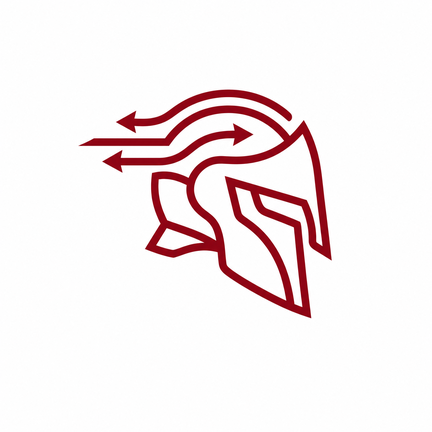
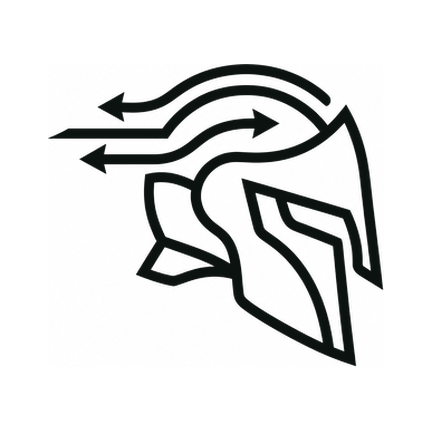
Checkpoint: تم إنشاء شعار OPTIMUS X أسود ومتمركز بعد إزالة الفراغات البيضاء الزائدة وتكبير الرسم، ثم استخدامه داخل شاشة البداية بحجم أكبر، وفي أيقونة التطبيق، وأيقونة Android التكيفية، وشاشة البداية. نجحت TypeScript و10 اختبارات للواجهة، وبُني APK Release بنجاح بحجم 81MB. SHA-256: 1a6d09ffed0e930f4e

Changed region(s): [[0.1204, 0.1505, 0.9028, 0.8426]]

diff --git a/components/jarbou3-app.tsx b/components/jarbou3-app.tsx
@@ -62,7 +62,7 @@ function Tag({ children, status = false }: { children: ReactNode; status?: boole
 }
 
 function Mark({ small = false }: { small?: boolean }) {
-  return <View style={[styles.mark, small && styles.markSmall]}><Image source={require("@/assets/images/icon.png")} style={styles.markImage} contentFit="cover" /></View>;
+  return <View style={[styles.mark, small && styles.markSmall]}><Image source={require("@/assets/images/optimus-black-logo.png")} style={styles.markImage} contentFit="cover" /></View>;
 }
 
 function PrivacyPolicySheet({ visible, onClose }: { visible: boolean; onClose: () => void }) {
@@ -1118,7 +1118,7 @@ const styles = StyleSheet.create({
   root: { flex: 1, backgroundColor: "#F7F9F8" }, authHelper: { color: "#829087", fontSize: 10, lineHeight: 16, textAlign: "right", marginTop: -4, marginBottom: 8 }, authTeamNote: { minHeight: 58, flexDirection: "row-reverse", alignItems: "center", gap: 10, paddingHorizontal: 12, borderRadius: 16, backgroundColor: "#EAF5EF", borderWidth: 1, borderColor: "#B8DCC8" }, authTeamText: { flex: 1, color: "#24755E", fontSize: 11, fontWeight: "800", lineHeight: 17, textAlign: "right" }, onboardingRoot: { flex: 1, backgroundColor: "#070B0A", justifyContent: "center", padding: 18, overflow: "hidden" }, onboardingScroll: { flexGrow: 1, justifyContent: "flex-start", padding: 18, paddingTop: 42 }, chooseScroll: { flexGrow: 1, justifyContent: "space-between", paddingTop: 30, paddingBottom: 26, gap: 24 }, chooseGlow: { position: "absolute", width: 310, height: 310, borderRadius: 155, backgroundColor: "#123E32", top: -155, right: -112, opacity: 0.7 }, chooseGlowSecondary: { position: "absolute", width: 210, height: 210, borderRadius: 105, backgroundColor: "#0D2922", bottom: -100, left: -90, opacity: 0.9 }, chooseHeader: { alignItems: "center", gap: 5 }, chooseLogo: { width: 70, height: 70, borderRadius: 24, alignItems: "center", justifyContent: "center", backgroundColor: "#F6FFFB", marginBottom: 6, shadowColor: "#55D9A5", shadowOpacity: 0.18, shadowRadius: 18, elevation: 4 }, chooseBrand: { color: "#F3FFF9", fontSize: 23, fontWeight: "900", letterSpacing: 2.2 }, chooseTagline: { color: "#8BA99D", fontSize: 11, fontWeight: "700" }, chooseIntro: { alignItems: "flex-end", paddingTop: 22, paddingHorizontal: 3 }, chooseKicker: { color: "#55D9A5", fontSize: 12, fontWeight: "900", marginBottom: 7 }, chooseTitle: { color: "#F3FFF9", fontSize: 31, fontWeight: "900", textAlign: "right" }, chooseCopy: { color: "#9BB5AA", fontSize: 13, fontWeight: "600", marginTop: 7, textAlign: "right" }, roleOptions: { gap: 13 }, roleOption: { minHeight: 88, flexDirection: "row-reverse", alignItems: "center", gap: 13, paddingHorizontal: 15, borderRadius: 23, backgroundColor: "#111A17", borderWidth: 1, borderColor: "#234238", shadowColor: "#000000", shadowOpacity: 0.3, shadowRadius: 14, shadowOffset: { width: 0, height: 5 }, elevation: 2 }, roleIcon: { width: 52, height: 52, borderRadius: 17, alignItems: "center", justifyContent: "center", backgroundColor: "#15392F" }, roleIconDriver: { backgroundColor: "#EEF7F3" }, roleCopy: { flex: 1, alignItems: "flex-end" }, roleOptionTitle: { color: "#F3FFF9", fontSize: 16, fontWeight: "900", textAlign: "right" }, roleOptionDescription: { color: "#8BA99D", fontSize: 11, fontWeight: "600", marginTop: 4, textAlign: "right" }, choosePressed: { opacity: 0.8, transform: [{ scale: 0.985 }] }, chooseFooter: { color: "#6E9184", fontSize: 10, fontWeight: "700", textAlign: "center", letterSpacing: 0.5 }, homeScroll: { flexGrow: 1, paddingHorizontal: 18, gap: 18 }, homeHeader: { flexDirection: "row-reverse", alignItems: "center", justifyContent: "space-between" }, homeIdentity: { flex: 1, alignItems: "flex-end" }, homeEyebrow: { color: "#24755E", fontSize: 10, fontWeight: "900", marginBottom: 5 }, homeGreeting: { color: "#21342A", fontSize: 23, fontWeight: "900", textAlign: "right" }, homeSubcopy: { color: "#7D8C84", fontSize: 11, fontWeight: "600", marginTop: 4, textAlign: "right" }, orderHero: { position: "relative", overflow: "hidden", borderRadius: 27, backgroundColor: "#EAF5EF", padding: 19, gap: 7 }, orderHeroGlow: { position: "absolute", width: 180, height: 180, borderRadius: 90, backgroundColor: "#D5EBDD", top: -92, left: -45 }, orderKicker: { color: "#24755E", fontSize: 10, fontWeight: "900", textAlign: "right" }, orderTitle: { color: "#21342A", fontSize: 24, fontWeight: "900", textAlign: "right", marginTop: 2 }, orderCopy: { color: "#6F8177", fontSize: 11, lineHeight: 18, fontWeight: "600", textAlign: "right", marginBottom: 7 }, createOrderButton: { minHeight: 50, borderRadius: 16, flexDirection: "row-reverse", alignItems: "center", justifyContent: "center", gap: 8, backgroundColor: "#24755E", shadowColor: "#24755E", shadowOpacity: 0.18, shadowRadius: 9, shadowOffset: { width: 0, height: 4 }, elevation: 3 }, createOrderText: { color: "#FFFFFF", fontSize: 13, fontWeight: "900" }, mapShortcut: { minHeight: 58, flexDirection: "row-reverse", alignItems: "center", gap: 10, marginTop: 6, paddingHorizontal: 10, borderRadius: 16, backgroundColor: "#FFFFFF99" }, mapShortcutIcon: { width: 34, height: 34, borderRadius: 11, alignItems: "center", justifyContent: "center", backgroundColor: "#DDF0E5" }, mapShortcutCopy: { flex: 1, alignItems: "flex-end" }, mapShortcutTitle: { color: "#345047", fontSize: 11, fontWeight: "900", textAlign: "right" }, mapShortcutText: { color: "#809087", fontSize: 9, fontWeight: "600", marginTop: 3, textAlign: "right" }, homeSectionHeader: { flexDirection: "row-reverse", alignItems: "center", justifyContent: "space-between", marginTop: 3 }, homeSectionTitle: { color: "#2C3D33", fontSize: 15, fontWeight: "900" }, homeSectionLink: { color: "#24755E", fontSize: 10, fontWeight: "900" }, recentEmpty: { minHeight: 82, flexDirection: "row-reverse", alignItems: "center", gap: 11, paddingHorizontal: 13, borderRadius: 19, backgroundColor: "#FFFFFF", shadowColor: "#1E3B2D", shadowOpacity: 0.05, shadowRadius: 10, shadowOffset: { width: 0, height: 3 }, elevation: 2 }, recentIcon: { width: 38, height: 38, borderRadius: 13, alignItems: "center", justifyContent: "center", backgroundColor: "#EAF5EF" }, recentCopy: { flex: 1, alignItems: "flex-end" }, recentTitle: { color: "#2D3D34", fontSize: 12, fontWeight: "900", textAlign: "right" }, recentText: { color: "#87958D", fontSize: 10, lineHeight: 16, fontWeight: "600", textAlign: "right", marginTop: 3 }, onboardingCard: { width: "100%", maxWidth: 470, alignSelf: "center", backgroundColor: "#FFFFFF", borderRadius: 28, padding: 22, gap: 13, shadowColor: "#000", shadowOpacity: 0.06, shadowRadius: 16, elevation: 2 }, landingCard: { width: "100%", maxWidth: 470, alignSelf: "center", backgroundColor: "#241B1F", borderRadius: 30, padding: 24, gap: 16, shadowColor: "#5B1830", shadowOpacity: 0.22, shadowRadius: 22, elevation: 5 }, landingBrand: { alignItems: "center", gap: 6, paddingTop: 4 }, landingBrandName: { color: "#FFFFFF", fontSize: 28, fontWeight: "900", letterSpacing: 2 }, landingBrandTagline: { color: "#E9C8D0", fontSize: 12, fontWeight: "800" }, landingDivider: { height: 1, backgroundColor: "#704453", marginVertical: 2 }, landingTitle: { color: "#FFFFFF", fontSize: 26, fontWeight: "900", textAlign: "right", marginTop: 2 }, landingCopy: { color: "#EADFE2", fontSize: 13, lineHeight: 21, textAlign: "right" }, onboardingTitle: { color: dark, fontSize: 24, fontWeight: "900", textAlign: "right", marginTop: 4 }, onboardingCopy: { color: "#737373", fontSize: 13, lineHeight: 21, textAlign: "right" }, onboardingNote: { color: "#7A7A7A", fontSize: 10, lineHeight: 16, textAlign: "right", marginTop: 2 }, verificationGuide: { backgroundColor: "#F2F2F2", borderRadius: 16, padding: 13, gap: 5 }, verificationGuideTitle: { color: dark, fontSize: 12, fontWeight: "900", textAlign: "right", marginBottom: 2 }, verificationGuideText: { color: "#666666", fontSize: 11, lineHeight: 18, textAlign: "right" }, verificationTimer: { backgroundColor: "#E7F3EC", borderColor: "#B7DEC8", borderWidth: 1, borderRadius: 17, padding: 13, flexDirection: "row-reverse", justifyContent: "space-between", alignItems: "center" }, verificationTimerExpired: { backgroundColor: "#FBE9E8", borderColor: "#E6BBB7" }, verificationTimerLabel: { color: "#2F7A62", fontSize: 11, fontWeight: "900", textAlign: "right" }, verificationTimerValue: { color: "#276149", fontSize: 17, fontWeight: "900" }, verificationTimerValueExpired: { color: "#B42318" }, roleChoice: { backgroundColor: "#F2F2F2", padding: 16, borderRadius: 18, gap: 4 }, roleChoiceDark: { backgroundColor: "#292929" }, roleChoiceTitle: { color: dark, fontSize: 17, fontWeight: "900", textAlign: "right" }, roleChoiceTitleDark: { color: "#FFFFFF", fontSize: 17, fontWeight: "900", textAlign: "right" }, roleChoiceCopy: { color: "#707070", fontSize: 11, textAlign: "right" }, roleChoiceCopyDark: { color: "#D2D2D2", fontSize: 11, textAlign: "right" }, onboardingOtp: { minHeight: 60, backgroundColor: "#F5F5F5", borderWidth: 1, borderColor: "#D8D8D8", borderRadius: 18, paddingHorizontal: 14, color: dark, fontSize: 26, letterSpacing: 8, fontWeight: "900" }, vehicleChoices: { flexDirection: "row-reverse", gap: 9 }, vehicleChoice: { flex: 1, minHeight: 50, borderRadius: 14, borderWidth: 1, borderColor: "#D8D8D8", justifyContent: "center", alignItems: "center", backgroundColor: "#FAFAFA" }, vehicleChoiceSelected: { borderColor: gray, borderWidth: 2, backgroundColor: "#E9E9E9" }, vehicleChoiceText: { color: gray, fontSize: 11, fontWeight: "900" },   scroll: { paddingBottom: 30 }, sheetScroll: { paddingBottom: 28, gap: 10 },   fill: { flex: 1 }, keyboardAvoiding: { flex: 1 }, profilePage: { backgroundColor: "#F5F7F5" }, profileScroll: { flexGrow: 1, padding: 20, paddingTop: 12, paddingBottom: 32, gap: 16 }, profileHeader: { alignItems: "center", paddingTop: 8, paddingBottom: 8 }, profileBack: { alignSelf: "flex-start", width: 44, height: 44, borderRadius: 14, backgroundColor: "#FFFFFF", alignItems: "center", justifyContent: "center", shadowColor: "#10231B", shadowOpacity: 0.08, shadowRadius: 8, elevation: 2 }, profileBackText: { color: dark, fontSize: 30, lineHeight: 30, transform: [{ rotate: "180deg" }] }, profileAvatar: { width: 82, height: 82, borderRadius: 28, backgroundColor: "#24755E", alignItems: "center", justifyContent: "center", marginTop: -2 }, profileAvatarText: { color: "#FFFFFF", fontSize: 34, fontWeight: "900" }, profileTitle: { color: dark, fontSize: 24, fontWeight: "900", marginTop: 12 }, profileSubtitle: { color: "#6D7C74", fontSize: 12, marginTop: 4 }, profileCard: { backgroundColor: "#FFFFFF", borderRadius: 20, padding: 16, shadowColor: "#10231B", shadowOpacity: 0.06, shadowRadius: 10, elevation: 2 }, profileSectionTitle: { color: dark, fontSize: 15, fontWeight: "900", textAlign: "right", marginBottom: 10 }, profileRow: { minHeight: 38, flexDirection: "row-reverse", alignItems: "center", justifyContent: "space-between", gap: 12 }, profileLabel: { color: "#829087", fontSize: 11, fontWeight: "700" }, profileValue: { color: dark, fontSize: 13, fontWeight: "900", flexShrink: 1, textAlign: "right" }, profileDivider: { height: 1, backgroundColor: "#EEF2EF", marginVertical: 8 }, profileAction: { minHeight: 44, flexDirection: "row-reverse", alignItems: "center", justifyContent: "space-between" }, profileActionText: { color: dark, fontSize: 13, fontWeight: "800" }, profileChevron: { color: "#24755E", fontSize: 26, lineHeight: 26, transform: [{ rotate: "180deg" }] }, profileHint: { color: "#718078", fontSize: 11, lineHeight: 18, textAlign: "right" }, profileLogout: { minHeight: 52, borderRadius: 16, borderWidth: 1, borderColor: "#D9B3B3", alignItems: "center", justifyContent: "center", backgroundColor: "#FFF8F8" }, profileLogoutText: { color: "#A33E3E", fontSize: 14, fontWeight: "900" }, locationNotice: { marginHorizontal: 16, marginBottom: 4, borderRadius: 14, backgroundColor: "#FFF4E5", paddingHorizontal: 12, paddingVertical: 9 }, locationNoticeText: { color: "#815B20", fontSize: 11, lineHeight: 17, textAlign: "right" }, flex: { flex: 1 }, pressed: { opacity: 0.78, transform: [{ scale: 0.986 }] }, space: { paddingHorizontal: 16, paddingTop: 16, gap: 14 }, roleSwitch: { flexDirection: "row-reverse", gap: 4, marginHorizontal: 16, marginTop: 8, marginBottom: 8, backgroundColor: "#E4E4E4", padding: 4, borderRadius: 14 }, role: { flex: 1, paddingVertical: 9, borderRadius: 10, alignItems: "center" }, roleSelected: { backgroundColor: "#FFF" }, roleText: { color: "#747474", fontSize: 13, fontWeight: "800" }, roleTextSelected: { color: dark },
   accessBar: { marginHorizontal: 16, marginBottom: 2, flexDirection: "row-reverse", justifyContent: "space-between", alignItems: "center", gap: 10 }, accessCopy: { color: "#737373", fontSize: 10, fontWeight: "700", textAlign: "right", flex: 1 }, accessButton: { backgroundColor: "#FFFFFF", borderColor: "#D7D7D7", borderWidth: 1, borderRadius: 10, paddingHorizontal: 10, paddingVertical: 7 }, accessButtonText: { color: "#4A4A4A", fontSize: 10, fontWeight: "900" }, reportIssueButton: { backgroundColor: "#FFF4E6", borderColor: "#E7B97C", borderWidth: 1, borderRadius: 10, paddingHorizontal: 9, paddingVertical: 7 }, reportIssueText: { color: "#854E0E", fontSize: 10, fontWeight: "900" }, runtimeBanner: { backgroundColor: "#FFF2D8", borderColor: "#EAB15C", borderWidth: 1, borderRadius: 12, paddingHorizontal: 14, paddingVertical: 10, marginHorizontal: 16, marginTop: 8 }, runtimeBannerRow: { flexDirection: "row-reverse", alignItems: "center", gap: 10 }, runtimeBannerText: { flex: 1, color: "#714B12", fontSize: 11, fontWeight: "800", lineHeight: 17, textAlign: "right" }, runtimeBannerButton: { backgroundColor: "#24755E", borderRadius: 9, paddingHorizontal: 10, paddingVertical: 8 }, runtimeBannerButtonText: { color: "#FFFFFF", fontSize: 10, fontWeight: "900" }, modalBackdrop: { flex: 1, backgroundColor: "#00000066", justifyContent: "flex-end" }, authSheet: { backgroundColor: "#FFFFFF", borderTopLeftRadius: 28, borderTopRightRadius: 28, padding: 22, gap: 12 }, problemSheet: { backgroundColor: "#FFFFFF", borderTopLeftRadius: 28, borderTopRightRadius: 28, padding: 22, gap: 12 }, policySheet: { maxHeight: "88%", backgroundColor: "#FFFFFF", borderTopLeftRadius: 28, borderTopRightRadius: 28, padding: 18, gap: 12 }, policyHeader: { flexDirection: "row-reverse", alignItems: "center", justifyContent: "space-between", gap: 10 }, policySheetTitle: { flex: 1, color: dark, fontSize: 18, fontWeight: "900", textAlign: "right" }, policyClose: { paddingHorizontal: 10, paddingVertical: 7, borderRadius: 10, backgroundColor: "#F0F0F0" }, policyCloseText: { color: gray, fontSize: 11, fontWeight: "900" }, policyScroll: { maxHeight: 470 }, policyScrollContent: { paddingBottom: 8 }, policyText: { color: "#444444", fontSize: 12, lineHeight: 22, textAlign: "right" }, policyConsentRow: { flexDirection: "row-reverse", alignItems: "flex-start", gap: 10, paddingVertical: 4 }, policyConsentText: { flex: 1, color: "#5E5E5E", fontSize: 11, lineHeight: 19, textAlign: "right" }, policyConsentLink: { color: "#9B1734", fontWeight: "900", textDecorationLine: "underline" }, policyCheckbox: { width: 25, height: 25, borderRadius: 7, borderWidth: 1.5, borderColor: "#B8B8B8", alignItems: "center", justifyContent: "center", backgroundColor: "#FFFFFF" }, policyCheckboxSelected: { backgroundColor: "#9B1734", borderColor: "#9B1734" }, policyCheckboxText: { color: "#FFFFFF", fontSize: 16, fontWeight: "900", lineHeight: 19 }, problemTitle: { color: dark, fontSize: 20, fontWeight: "900", textAlign: "right" }, problemCopy: { color: "#737373", fontSize: 12, lineHeight: 19, textAlign: "right" }, problemInput: { minHeight: 130, borderRadius: 16, backgroundColor: "#F5F5F5", borderColor: "#DDDDDD", borderWidth: 1, padding: 14, color: dark, fontSize: 13, fontWeight: "700" }, authTitle: { color: dark, fontSize: 22, fontWeight: "900", textAlign: "right" }, authCopy: { color: "#737373", fontSize: 12, lineHeight: 19, textAlign: "right", marginBottom: 4 }, authInput: { minHeight: 52, borderRadius: 15, backgroundColor: "#F5F5F5", borderColor: "#DDDDDD", borderWidth: 1, paddingHorizontal: 14, color: dark, fontSize: 14, fontWeight: "700" }, authRecoveryTimer: { minHeight: 70, borderRadius: 18, backgroundColor: "#EAF5EF", alignItems: "center", justifyContent: "center", marginBottom: 12 }, authRecoveryTimerExpired: { backgroundColor: "#FFF4F2" }, authRecoveryTimerLabel: { color: "#7B8C82", fontSize: 10, fontWeight: "800" }, authRecoveryTimerValue: { color: "#24755E", fontSize: 22, fontWeight: "900", marginTop: 3 }, authRecoveryTimerValueExpired: { color: "#B42318" }, authOtpInput: { textAlign: "center", fontSize: 24, letterSpacing: 6, fontWeight: "900" }, authAction: { minHeight: 53, borderRadius: 16, backgroundColor: gray, alignItems: "center", justifyContent: "center" }, authActionDisabled: { opacity: 0.65 }, modeSwitch: { paddingVertical: 8, alignItems: "center" }, modeSwitchText: { color: gray, fontSize: 12, fontWeight: "900" },
   startedTripNotice: { color: "#9B1734", backgroundColor: "#FCEBED", borderRadius: 14, padding: 12, textAlign: "right", fontSize: 11, fontWeight: "800", lineHeight: 17 }, startTripTrack: { minHeight: 58, borderRadius: 18, backgroundColor: "#E9F4EF", borderWidth: 1, borderColor: "#9AC9B4", justifyContent: "center", alignItems: "center", overflow: "hidden", position: "relative" }, startTripTrackDisabled: { opacity: 0.55 }, startTripText: { color: "#276149", fontSize: 13, fontWeight: "900" }, startTripKnob: { position: "absolute", left: 5, width: 48, height: 48, borderRadius: 15, backgroundColor: "#2F7A62", alignItems: "center", justifyContent: "center" }, startTripArrow: { color: "#FFFFFF", fontSize: 31, lineHeight: 34, fontWeight: "900" }, action: { minHeight: 53, borderRadius: 16, backgroundColor: gray, justifyContent: "center", alignItems: "center", paddingHorizontal: 14 }, actionDark: { backgroundColor: "#FFF" }, actionOutline: { backgroundColor: "transparent", borderWidth: 1, borderColor: "#C9C9C9" }, actionText: { color: "#FFF", fontSize: 14, fontWeight: "900", textAlign: "center" }, actionOutlineText: { color: gray }, tag: { backgroundColor: "#E9E9E9", paddingHorizontal: 9, paddingVertical: 5, borderRadius: 99, alignSelf: "flex-start" }, tagStatus: { backgroundColor: "#DDF2E9" }, tagText: { color: "#555", fontSize: 10, fontWeight: "900" }, tagStatusText: { color: "#276149" },
-  mark: { width: 56, height: 56, borderRadius: 18, overflow: "hidden", backgroundColor: "#FFF", alignSelf: "center", marginBottom: 8 }, markSmall: { width: 34, height: 34, borderRadius: 11 }, markImage: { width: "100%", height: "100%" }, hero: { marginHorizontal: 16, padding: 19, borderRadius: 24, backgroundColor: "#FFF", flexDirection: "row-reverse", justifyContent: "space-between", alignItems: "center" }, heroTitle: { color: dark, fontSize: 24, fontWeight: "900", textAlign: "right" }, eyebrow: { color: "#747474", fontSize: 11, fontWeight: "900", textAlign: "right", marginBottom: 4 }, copy: { color: "#737373", textAlign: "right", fontSize: 12, lineHeight: 19, marginTop: 4 }, copyRight: { color: "#737373", textAlign: "right", fontSize: 12, lineHeight: 19 },
+  mark: { width: 56, height: 56, borderRadius: 18, overflow: "hidden", backgroundColor: "#FFF", alignSelf: "center", marginBottom: 8 }, markSmall: { width: 58, height: 58, borderRadius: 20 }, markImage: { width: "100%", height: "100%" }, hero: { marginHorizontal: 16, padding: 19, borderRadius: 24, backgroundColor: "#FFF", flexDirection: "row-reverse", justifyContent: "space-between", alignItems: "center" }, heroTitle: { color: dark, fontSize: 24, fontWeight: "900", textAlign: "right" }, eyebrow: { color: "#747474", fontSize: 11, fontWeight: "900", textAlign: "right", marginBottom: 4 }, copy: { color: "#737373", textAlign: "right", fontSize: 12, lineHeight: 19, marginTop: 4 }, copyRight: { color: "#737373", textAlign: "right", fontSize: 12, lineHeight: 19 },
   map: { height: 220, borderRadius: 23, overflow: "hidden", backgroundColor: "#D6D8D3", marginHorizontal: 16, marginTop: 16, position: "relative" }, mapCompact: { height: 188 }, nativeMap: { flex: 1 }, mapRoad: { position: "absolute", height: 4, left: -30, right: -30, backgroundColor: "#FFF", opacity: 0.75 }, mapName: { position: "absolute", top: 18, left: 20, color: "#747474", fontSize: 18, fontWeight: "900" }, dot: { position: "absolute", width: 12, height: 12, borderRadius: 8, borderWidth: 2, borderColor: "#FFF", backgroundColor: "#888" }, dotTarget: { width: 20, height: 20, borderRadius: 10, right: "12%", top: "20%", backgroundColor: "#2F7A62" }, mapDriver: { position: "absolute", top: "37%", left: "54%", borderWidth: 3, borderColor: "#FFF", borderRadius: 14 }, mapBadge: { position: "absolute", bottom: 11, right: 11, backgroundColor: "#FFFFFFE8", paddingHorizontal: 10, paddingVertical: 6, borderRadius: 10 }, mapBadgeText: { color: gray, fontSize: 11, fontWeight: "900" },
   headingRow: { flexDirection: "row-reverse", alignItems: "flex-end", justifyContent: "space-between" }, heading: { color: dark, fontSize: 19, fontWeight: "900", textAlign: "right" }, aside: { color: "#737373", fontSize: 11, fontWeight: "800" }, note: { backgroundColor: "#E7E7E7", borderRadius: 18, padding: 14, flexDirection: "row-reverse", gap: 10, alignItems: "center" }, noteIcon: { color: "#FFF", backgroundColor: gray, width: 35, height: 35, borderRadius: 11, overflow: "hidden", textAlign: "center", textAlignVertical: "center", fontSize: 19, fontWeight: "900" }, noteTitle: { color: dark, fontSize: 13, fontWeight: "900", textAlign: "right" }, noteCopy: { color: "#737373", fontSize: 11, lineHeight: 17, textAlign: "right", marginTop: 2 }, empty: { backgroundColor: "#FFF", borderRadius: 18, borderColor: "#D8D8D8", borderWidth: 1, borderStyle: "dashed", padding: 16 }, emptyText: { color: "#737373", fontSize: 12, textAlign: "right" },
   top: { height: 60, paddingHorizontal: 16, flexDirection: "row-reverse", justifyContent: "space-between", alignItems: "center" }, back: { width: 38, height: 38, borderRadius: 14, backgroundColor: "#FFF", alignItems: "center", justifyContent: "center" }, backText: { color: dark, fontSize: 30, marginTop: -6 }, backBlank: { width: 38 }, topTitle: { color: dark, fontSize: 17, fontWeight: "900" }, card: { backgroundColor: "#FFF", margin: 16, padding: 17, borderRadius: 23, gap: 11 }, label: { color: gray, fontSize: 12, fontWeight: "900", textAlign: "right", marginTop: 3 }, favoriteSection: { backgroundColor: "#F4F4F4", borderRadius: 16, padding: 12, gap: 9 }, favoriteTitle: { color: dark, fontSize: 12, fontWeight: "900", textAlign: "right" }, favoriteRow: { flexDirection: "row-reverse", flexWrap: "wrap", gap: 7 }, favoriteChip: { flexDirection: "row-reverse", alignItems: "center", gap: 6, backgroundColor: "#FFFFFF", borderColor: "#DADADA", borderWidth: 1, borderRadius: 10, paddingVertical: 7, paddingHorizontal: 9, maxWidth: "100%" }, favoriteChipText: { color: gray, fontSize: 10, fontWeight: "900", maxWidth: 150 }, favoriteDelete: { color: "#B42318", fontSize: 16, lineHeight: 16, fontWeight: "900" }, favoriteEmpty: { color: "#767676", fontSize: 10, lineHeight: 16, textAlign: "right" }, saveFavoriteRow: { flexDirection: "row-reverse", gap: 7 }, favoriteInput: { flex: 1, minHeight: 42, backgroundColor: "#FFFFFF", borderRadius: 11, borderWidth: 1, borderColor: "#D9D9D9", paddingHorizontal: 10, color: dark, fontSize: 11, fontWeight: "700" }, saveFavoriteButton: { minWidth: 58, minHeight: 42, backgroundColor: gray, borderRadius: 11, alignItems: "center", justifyContent: "center" }, saveFavoriteButtonText: { color: "#FFFFFF", fontSize: 11, fontWeight: "900" }, stops: { flexDirection: "row-reverse", flexWrap: "wrap", gap: 7 }, stop: { borderWidth: 1, borderColor: "#D8D8D8", borderRadius: 12, paddingHorizontal: 10, paddingVertical: 8 }, stopSelected: { borderColor: gray, backgroundColor: gray }, stopText: { color: "#717171", fontSize: 11, fontWeight: "800" }, stopTextSelected: { color: "#FFF" }, quote: { flexDirection: "row-reverse", alignItems: "center", justifyContent: "space-between", backgroundColor: "#F0F0F0", borderRadius: 16, padding: 13 }, quoteLabel: { color: "#747474", fontSize: 10, fontWeight: "800", textAlign: "right" }, quoteValue: { color: dark, fontSize: 17, fontWeight: "900", marginTop: 3, textAlign: "right" }, quoteValueSmall: { color: gray, fontSize: 12, fontWeight: "800", marginTop: 3, textAlign: "right" }, quoteLine: { width: 1, height: 35, backgroundColor: "#D3D3D3" }, paymentRow: { flexDirection: "row-reverse", gap: 9 }, payment: { flex: 1, minHeight: 54, justifyContent: "center", alignItems: "center", borderWidth: 1, borderColor: "#D8D8D8", borderRadius: 15 }, paymentSelected: { borderWidth: 2, borderColor: gray, backgroundColor: "#F1F1F1" }, paymentText: { color: gray, fontSize: 12, fontWeight: "900" },

diff --git a/app.config.ts b/app.config.ts
@@ -47,7 +47,7 @@ const config: ExpoConfig = {
   owner: env.expoOwner,
   version: "1.0.0",
   orientation: "portrait",
-  icon: "./assets/images/icon.png",
+  icon: "./assets/images/optimus-black-logo.png",
   scheme: env.scheme,
   userInterfaceStyle: "automatic",
   // react-native-reanimated 4 يتطلب New Architecture أثناء بناء Android.
@@ -62,9 +62,9 @@ const config: ExpoConfig = {
   android: {
     adaptiveIcon: {
       backgroundColor: "#F5F5F5",
-      foregroundImage: "./assets/images/android-icon-foreground.png",
+      foregroundImage: "./assets/images/optimus-black-logo.png",
       backgroundImage: "./assets/images/android-icon-background.png",
-      monochromeImage: "./assets/images/android-icon-monochrome.png",
+      monochromeImage: "./assets/images/optimus-black-logo.png",
     },
     predictiveBackGestureEnabled: false,
     package: env.androidPackage,
@@ -86,7 +86,7 @@ const config: ExpoConfig = {
   web: {
     bundler: "metro",
     output: "static",
-    favicon: "./assets/images/favicon.png",
+    favicon: "./assets/images/optimus-black-logo.png",
   },
   extra: {
     apiBaseUrl: env.apiBaseUrl,
@@ -159,7 +159,7 @@ const config: ExpoConfig = {
     [
       "expo-splash-screen",
       {
-        image: "./assets/images/splash-icon.png",
+        image: "./assets/images/optimus-black-logo.png",
         imageWidth: 200,
         resizeMode: "contain",
         backgroundColor: "#ffffff",

diff --git a/scripts/create-black-logo-assets.py b/scripts/create-black-logo-assets.py
@@ -1,0 +1,35 @@
+from pathlib import Path
+from PIL import Image, ImageChops
+
+root = Path('/home/ubuntu/jarbou3-delivery/assets/images')
+source = Image.open(root / 'icon.png').convert('RGB')
+# Detect the non-white logo artwork and crop its generous white margins.
+mask = ImageChops.invert(source).convert('L').point(lambda value: 255 if value > 20 else 0)
+bbox = mask.getbbox()
+if not bbox:
+    raise RuntimeError('Could not detect logo artwork')
+art = source.crop(bbox).convert('RGBA')
+# Recolor all artwork pixels to near-black while preserving anti-aliased edges.
+pixels = art.load()
+for y in range(art.height):
+    for x in range(art.width):
+        r, g, b, a = pixels[x, y]
+        luminance = (r + g + b) / 3
+        alpha = max(0, min(255, int((255 - luminance) * 1.35)))
+        pixels[x, y] = (12, 18, 16, alpha)
+# Place the mark substantially larger and centered on a clean white square.
+def make(size):
+    canvas = Image.new('RGBA', (size, size), (255, 255, 255, 255))
+    target = int(size * 0.78)
+    scale = min(target / art.width, target / art.height)
+    resized = art.resize((max(1, int(art.width * scale)), max(1, int(art.height * scale))), Image.Resampling.LANCZOS)
+    canvas.alpha_composite(resized, ((size - resized.width) // 2, (size - resized.height) // 2))
+    return canvas.convert('RGB')
+
+make(512).save(root / 'optimus-black-logo.png', optimize=True)
+make(512).save(root / 'icon.png', optimize=True)
+make(512).save(root / 'splash-icon.png', optimize=True)
+make(432).save(root / 'android-icon-foreground.png', optimize=True)
+make(432).save(root / 'android-icon-monochrome.png', optimize=True)
+make(192).save(root / 'favicon.png', optimize=True)
+print(f'Created centered black logo from detected bounds {bbox}.')
